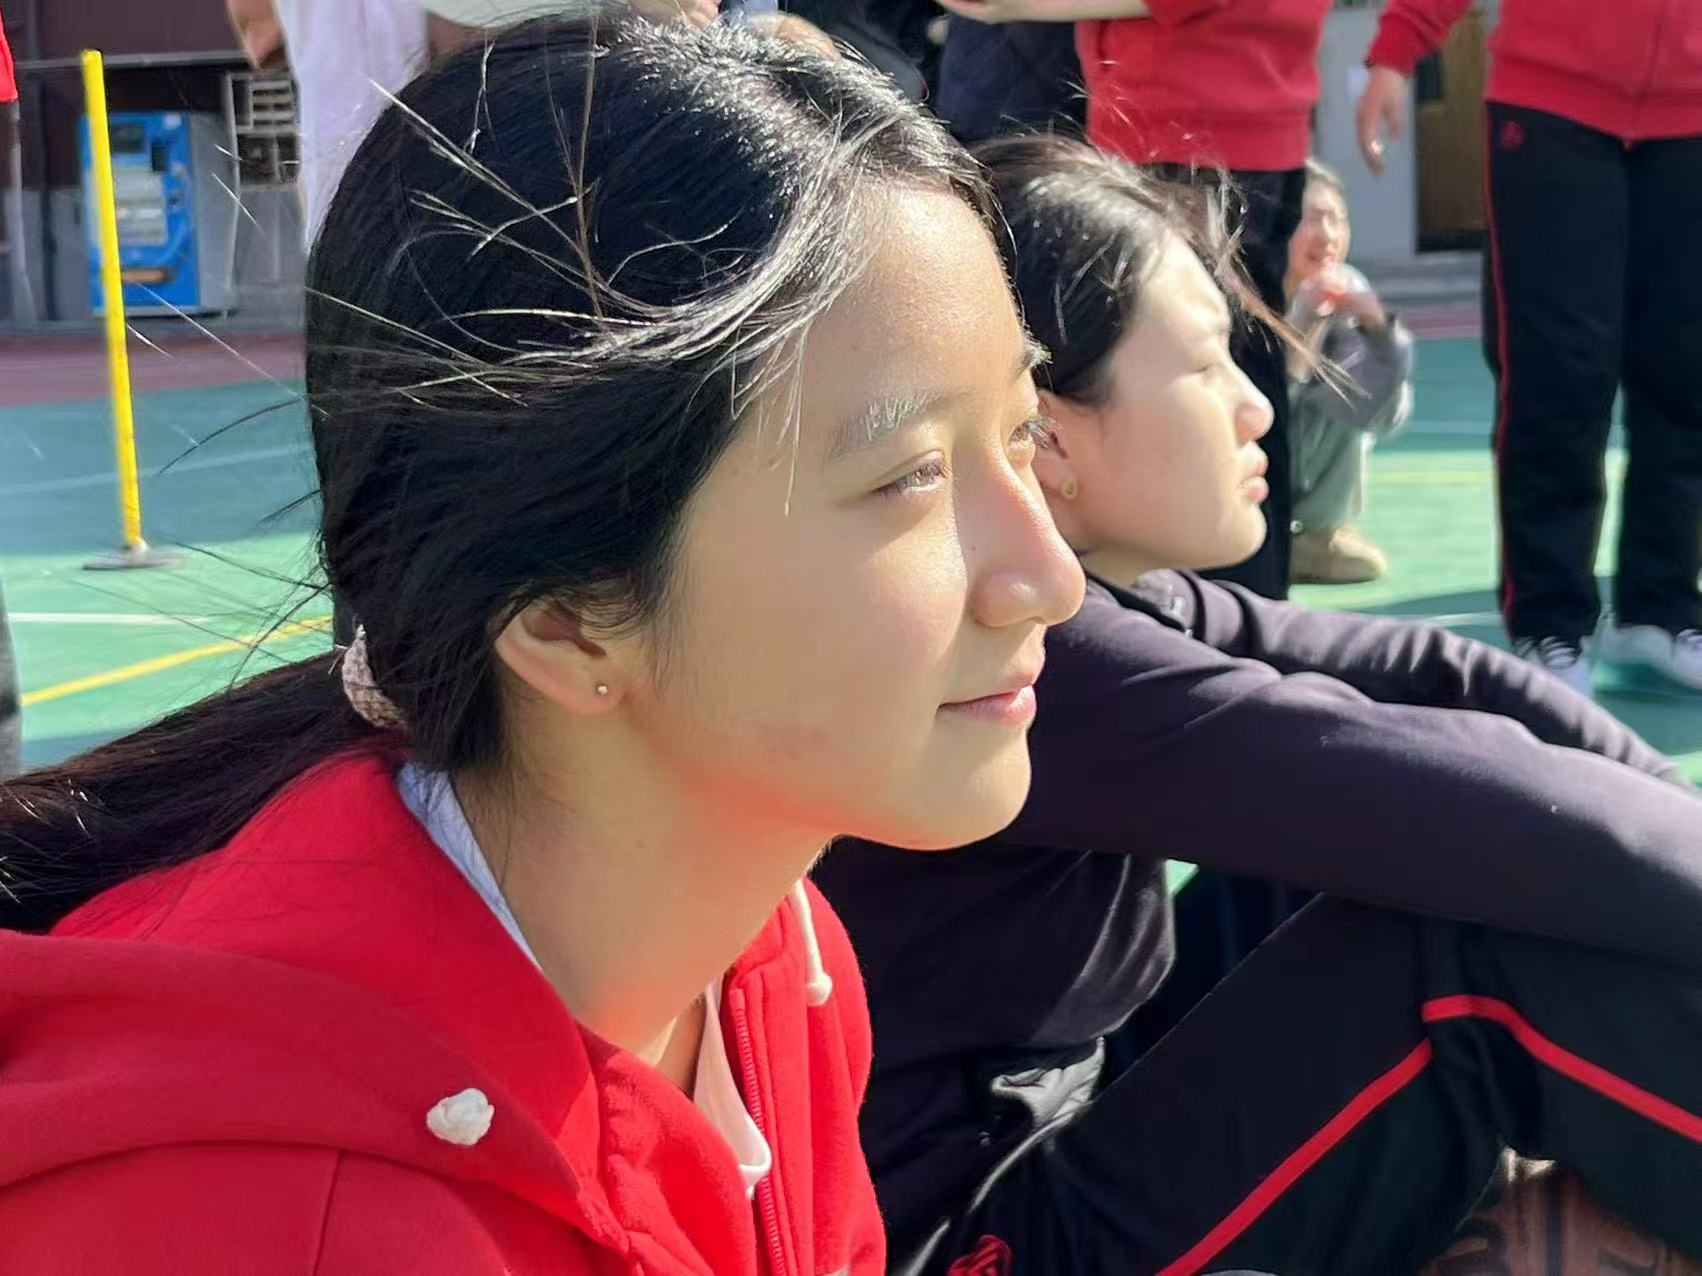
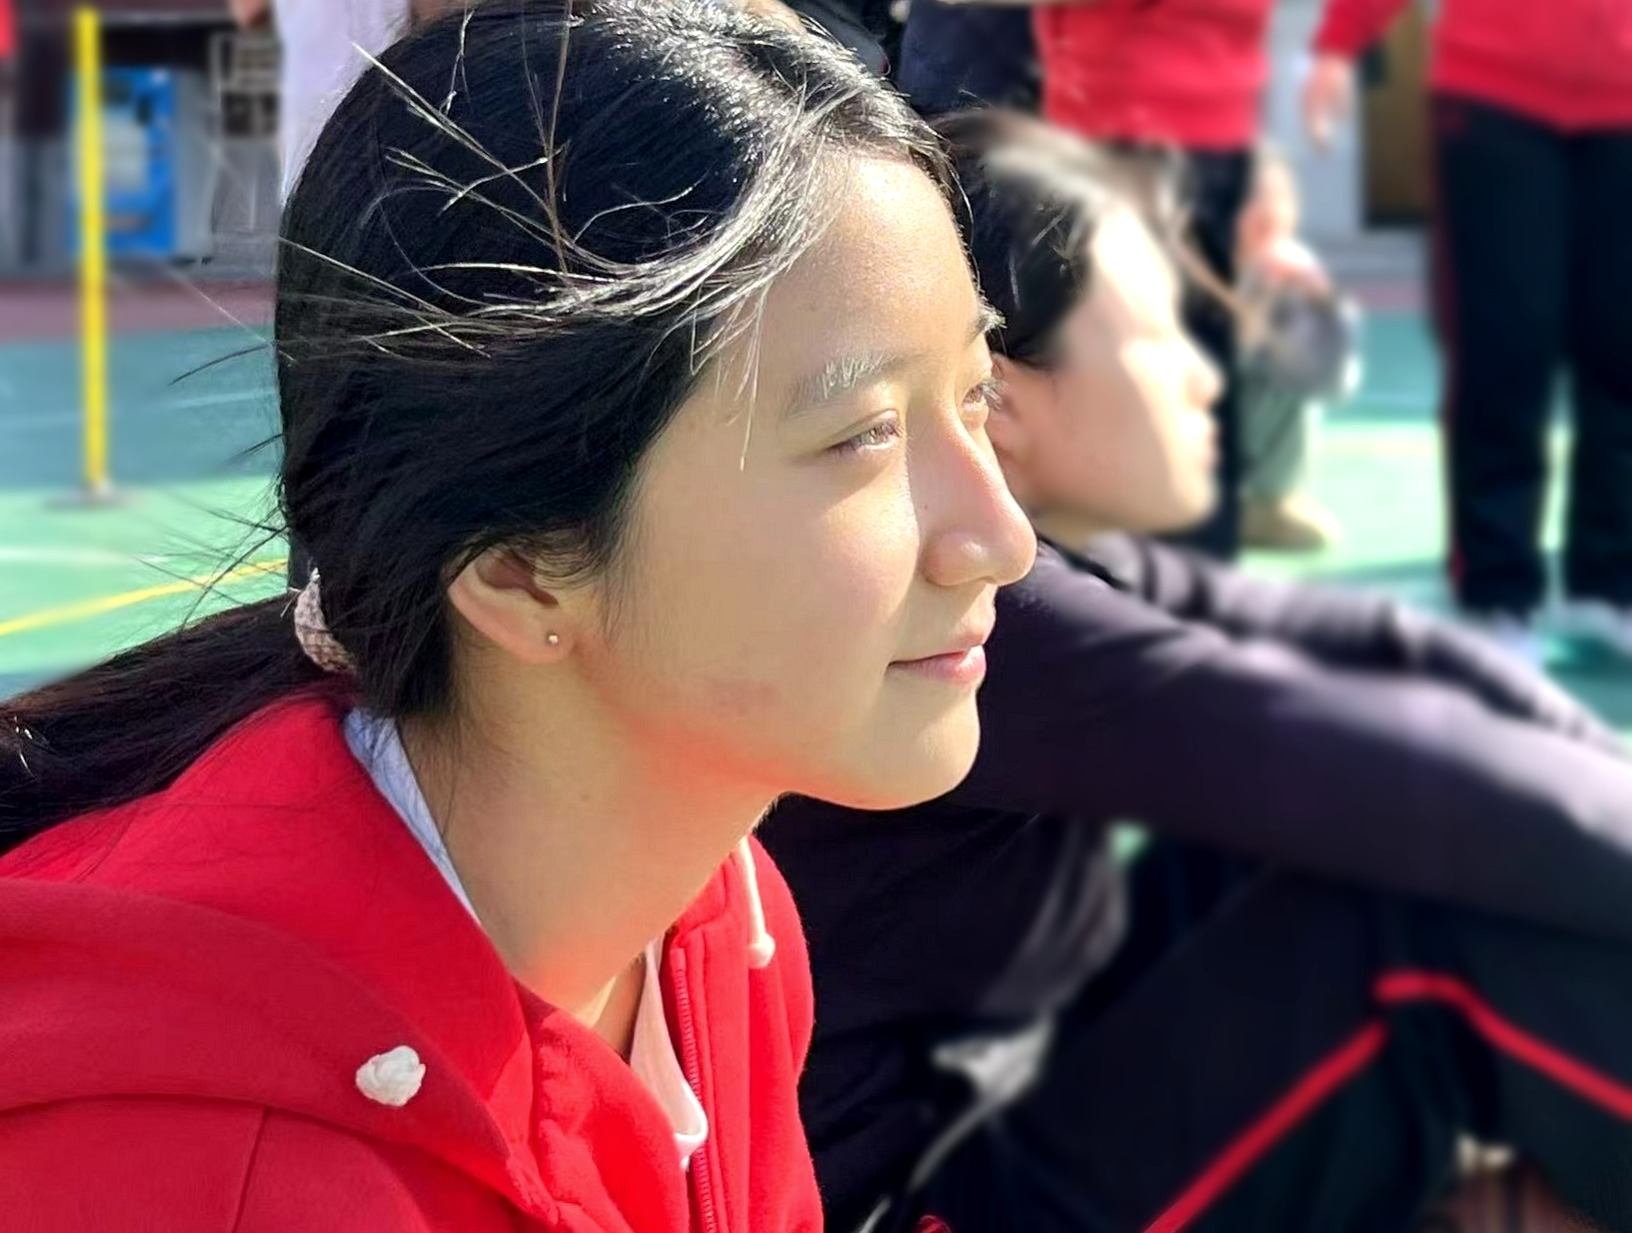
uploaded new pictures, link change color

diff --git a/pages/about.html b/pages/about.html
@@ -50,7 +50,7 @@
 
             is a documentary filmmaker & video-journalist.
             She is a senior at <a href="https://www.williams.edu/" target="_blank" rel="noopener noreferrer">Williams College</a> majoring in Comparative Literature.
-            She is also a member at Purple Valley production.
+            She is also a member of <a href="https://www.purplevalleyproductions.com/" target="_blank" rel="noopener noreferrer">Purple Valley Productions</a>.
             </p>
 
             <p>

diff --git a/css/layout.css b/css/layout.css
@@ -65,6 +65,16 @@ img {
     max-width: 100%;
 }
 
+a {
+    text-decoration: none;
+    color: inherit;
+    transition: color 0.2s ease;
+}
+
+a:hover {
+    color: #089dfada;
+}
+
 @media (max-width: 900px) {
 
     .site-header {
